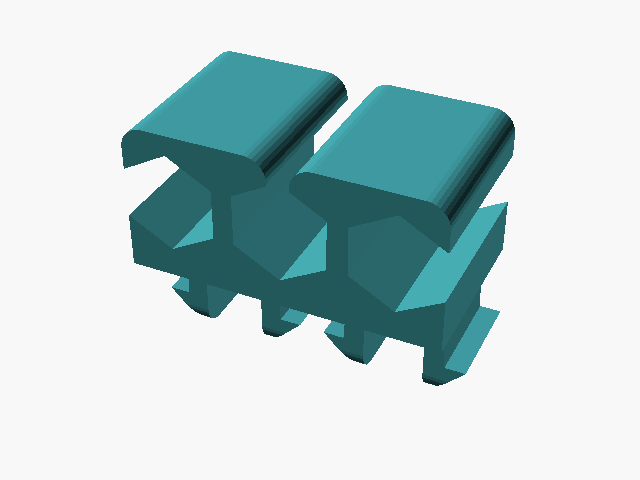
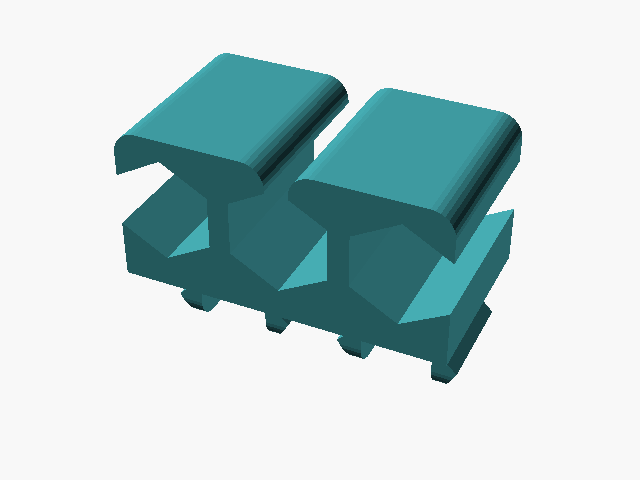
modgrid: reshape the pin so its legs bend instead of snapping
A test print of the pin rebuilt from the designer's v4 files broke: its
barbs are 6.9mm across for a 5mm hole, so each leg has to bend 0.95mm
inward on a leg about 3mm long and thinnest at its root. A plane-stress
model of that profile puts the root at about 8% strain on the way in,
twice what printed PLA takes.

The pegs keep the designer's layout (two per 2x1 pin, on the 8mm pitch)
and are reshaped to bend: barbs 0.3mm past each wall, 0.65mm legs
slotted to 0.25mm under the root, a 30 degree lead-in, and a 45 degree
latch face set to cross the hole's back edge 0.1mm outside the wall, so
a seated leg stays bent that much and pulls the part flush with no
rattle. The same model puts the legs at about 2.3% strain with a sixth
of the force per leg. Pegs are 4.8mm deep (5 before) for room in the
hole.

The bit holders keep the designer's bodies on the new pin. Their shape
checks now compare the bodies only, clipped above the pin's root; the
shape check against the designer's connector is gone, and the fit
checks allow the preload's 0.024mm3 of overlap per leg.

diff --git a/README.md b/README.md
@@ -55,9 +55,11 @@ too, for the same reason: the community's Skådis libraries are GPL or unlicense
 measured against, not vendored. The MOLLE spine, panels and insert (`lib/molle.scad`) are this repo's
 from scratch: PALS is defined by its webbing (25.4 mm rows, 25.4 mm apart, bar-tacked every
 38.1 mm), rigid panels have no standard at all, and there is no open model to check against, so all are
-`parametric`. The MOD-GRID grid, pin and bit holders (`lib/modgrid.scad`) are rebuilt here from
+`parametric`. The MOD-GRID grid and bit holders (`lib/modgrid.scad`) are rebuilt here from
 measurements of the designer's own STLs, which sit behind a MakerWorld login: they are not shipped,
-and `references.yaml` checks the parts against them once they are in `refs/manual/modgrid/`.
+and `references.yaml` checks the parts against them once they are in `refs/manual/modgrid/`. The
+pin keeps the designer's layout but is reshaped so its legs bend instead of snapping off, and is
+checked to fit the designer's grid.
 Each catalogue entry links its own source; see "Licensing" for what the non-MIT ones mean for you.
 
 ## Quick start
@@ -160,8 +162,8 @@ LEGO-compatible fasteners print poorly, so print real ones or use the finished B
 | ![Board](docs/img/skadis_board.png)<br>Board | Skådis | exact | MIT | [lib/skadis.scad: Skådis's 5 x 15mm slots in a checkerboard on a 20mm grid, checked against breckenedge's parametric-skadis-tower (CC-BY-SA 4.0, measured against, not vendored).](https://github.com/breckenedge/parametric-skadis-tower) | Flat on the bed, no supports. 5mm thick, slots 40mm apart along a row and rows 20mm apart, every other row shifted 20mm, as on a Skådis board; cols counts the slots in a row, in halves: 2.5 is five 20mm cells across, which makes the board symmetric left to right (a whole number leaves one side starting on a gap). The slots are cut 5.2mm wide, so moulded Skådis hooks go in. A board is exactly 2 x cols x rows 20mm cells, so boards butt together. "mount" is the back, against the wall. |
 | ![Peg](docs/img/skadis_peg.png)<br>Peg | Skådis | exact | MIT | [lib/skadis.scad's hook tab, checked against this repo's Skådis board (itself checked against parametric-skadis-tower).](https://github.com/breckenedge/parametric-skadis-tower) | Print it on its side, a tab flat on the bed, so the layers run along the arm. Each tab goes straight through a slot, drops 6mm and hangs behind the board; lift it to take it off. pegs 2 puts two tabs 40mm apart, for two slots in a row, so the part cannot turn. The plate's front is "mount", for fusing a holder or shelf onto. |
 | ![Grid](docs/img/modgrid_grid.png)<br>Grid | MOD-GRID | exact | CC-BY-NC-SA-4.0 | [MOD-GRID by 3dedc (TinyToolShop), MakerWorld model 2811701 — rebuilt from the designer's 4x12 grid STL, measured, and checked against it. CC BY-NC-SA 4.0 — see README "Licensing".](https://makerworld.com/en/models/2811701-mod-grid) | Flat on the bed, no supports. 5mm square holes on an 8mm pitch through a 3mm plate, cols across and rows up: a grid is exactly cols x 8 + 3 by rows x 8 + 3mm, so the designer's 12 x 4 is 99 x 35. Accessories plug into two neighbouring holes of a row. "mount" is the back, for fusing the grid onto a case or a lid. |
-| ![Pin](docs/img/modgrid_connector.png)<br>Pin | MOD-GRID | exact | CC-BY-NC-SA-4.0 | [MOD-GRID by 3dedc (TinyToolShop), MakerWorld model 2811701 — the designer's "Modular connector", rebuilt from its v4 STL, measured, and checked against it. CC BY-NC-SA 4.0 — see README "Licensing".](https://makerworld.com/en/models/2811701-mod-grid) | The snap pin MOD-GRID accessories plug in with, for fusing onto any part so it plugs into a MOD-GRID grid; on the Bench it attaches with plate 0, the pegs straight on the part's face. pegs 2 is the designer's 2x1 pin, for two neighbouring holes of a row; pegs 1 a single peg for one hole. rows repeats them in that many rows; depth is how deep each goes along its hole (5, the hole). On its own, plate puts a plate behind them, 14.6mm wide for two pegs, 6.6 for one. Print the pegs on their side, their profile flat on the bed, as the designer does: turn the part, or the part it is fused onto, that way in the slicer. |
-| ![Bit holder](docs/img/modgrid_bit_holder.png)<br>Bit holder | MOD-GRID | exact | CC-BY-NC-SA-4.0 | [MOD-GRID by 3dedc (TinyToolShop), MakerWorld model 2811701 — the designer's 4mm, 6mm and Leatherman flat bit holders, rebuilt from their v4 STLs, measured, and checked against them. CC BY-NC-SA 4.0 — see README "Licensing".](https://makerworld.com/en/models/2811701-mod-grid) | Holds driver bits on a MOD-GRID grid: bit 4mm takes three 4mm hex precision bits, 6mm two 1/4" (6.35mm) hex bits, leatherman three Leatherman flat bits. The bits lie along the holder and slide in from an end. rows makes it that many grid rows long, 8mm and a pin each, to hold longer bits further along. Print it on its side, an end face on the bed, as the designer does; no supports. |
+| ![Pin](docs/img/modgrid_connector.png)<br>Pin | MOD-GRID | exact | CC-BY-NC-SA-4.0 | [MOD-GRID by 3dedc (TinyToolShop), MakerWorld model 2811701 — the designer's "Modular connector", with its pegs reshaped so their legs bend instead of breaking, and checked to fit the designer's grid. CC BY-NC-SA 4.0 — see README "Licensing".](https://makerworld.com/en/models/2811701-mod-grid) | The snap pin MOD-GRID accessories plug in with, for fusing onto any part so it plugs into a MOD-GRID grid; on the Bench it attaches with plate 0, the pegs straight on the part's face. pegs 2 is the 2x1 pin, for two neighbouring holes of a row; pegs 1 a single peg for one hole. rows repeats them in that many rows; depth is how deep each goes along its 5mm hole (4.8). On its own, plate puts a plate behind them, 14.6mm wide for two pegs, 6.6 for one. Each peg's legs bend 0.3mm to snap in and stay pressed on the hole's back edge, so the part sits flush and firm. Print the pegs on their side, their profile flat on the bed, as the designer does: turn the part, or the part it is fused onto, that way in the slicer. |
+| ![Bit holder](docs/img/modgrid_bit_holder.png)<br>Bit holder | MOD-GRID | exact | CC-BY-NC-SA-4.0 | [MOD-GRID by 3dedc (TinyToolShop), MakerWorld model 2811701 — the designer's 4mm, 6mm and Leatherman flat bit holders, rebuilt from their v4 STLs, measured, and checked against them, on the reshaped pin of the MOD-GRID pin part. CC BY-NC-SA 4.0 — see README "Licensing".](https://makerworld.com/en/models/2811701-mod-grid) | Holds driver bits on a MOD-GRID grid: bit 4mm takes three 4mm hex precision bits, 6mm two 1/4" (6.35mm) hex bits, leatherman three Leatherman flat bits. The bits lie along the holder and slide in from an end. rows makes it that many grid rows long, 8mm and a pin each, to hold longer bits further along. Print it on its side, an end face on the bed, as the designer does; no supports. |
 | ![Spine](docs/img/molle_spine.png)<br>Spine | MOLLE | parametric | MIT | [lib/molle.scad, from the PALS grid as the webbing defines it: 25.4mm (1") rows with a 25.4mm gap, bar-tacked every 38.1mm (1.5"). No published geometry drawing or open model to check against.](https://en.wikipedia.org/wiki/Pouch_Attachment_Ladder_System) | Print it on its side, the profile flat on the bed, so the layers run along the tongue; PETG flexes better than PLA. Slide the tongue down behind rows rows of webbing from above, until the barb clicks in under the bottom row; press the tip back to take it off. cols 2 puts two tongues 38.1mm apart, for two columns, so the part cannot swing. webbing is the gap the webbing sits in: measure yours, and go tighter for a firmer grip. The plate's front is "mount". |
 | ![Panel](docs/img/molle_panel.png)<br>Panel | MOLLE | parametric | MIT | [lib/molle.scad: a laser-cut MOLLE panel's slits, every 25.4mm up and 38.1mm across, with a channel behind each column for the strap. No published geometry drawing or open model to check against.](https://en.wikipedia.org/wiki/Pouch_Attachment_Ladder_System) | Front down, ribs up, no supports. A pouch strap goes in at one slit, behind the strip, out at the next; the 30 x 5mm slits take a 1" strap, and channel is the room behind the skin for it to run in (0 for a bare slotted skin). rows counts strips, rows + 1 rows of slits. A panel is exactly cols x 38.1 by (rows + 1) x 25.4mm, so panels butt together. "mount" is the back. |
 | ![Rigid panel](docs/img/molle_rigid_panel.png)<br>Rigid panel | MOLLE | parametric | MIT | [lib/molle.scad: rigid panels have no standard; the default opening is DV8 Offroad's published 1.5" x 1" (38.1 x 25.4mm), on PALS spacing up and a 12.7mm bar across. No open model to check against.](https://nomadicsupply.com/dv8-offroad-universal-molle-panel-23x15-unmp-06/) | Flat on the bed, no supports. Open windows that pouch straps wrap round and molle/insert plugs into. cols x rows openings, each open_w x open_h with open_r corners, centred in pitch_x x pitch_y cells: a panel is exactly cols x pitch_x by rows x pitch_y, so panels butt together. The openings are 0.5mm over the nominal 38.1 x 25.4, since printed holes come out narrow; a molle/insert at its defaults has 0.3mm a side. To match a truck panel, measure its openings and the distance between their centres. Mounting holes come from the Holes tab. "mount" is the back. |

diff --git a/CHANGELOG.md b/CHANGELOG.md
@@ -5,6 +5,20 @@ parts themselves. The desktop downloads are on the
 [releases page](https://github.com/dnnsmnstrr/connector-foundry/releases); the web version always
 runs the latest `main` at https://dnnsmnstrr.github.io/connector-foundry/app/.
 
+## Unreleased
+
+### Parts
+
+- **MOD-GRID pin, reshaped so it bends instead of breaking.** The designer's pin has barbs 6.9mm
+  across for a 5mm hole, so each leg had to bend almost a millimetre on a leg 3mm long: printed in
+  PLA, the legs snapped off rather than going in. The pegs keep the designer's layout but now have
+  thinner, longer legs, barbs 0.3mm proud of the hole, a gentle 30° lead-in and a 45° latch that
+  stays pressed on the hole's back edge, so the part pulls flush onto the grid and doesn't rattle.
+  Going in takes about a sixth of the force, and the strain in the legs is about a quarter of what
+  it was. Pegs are 4.8mm deep now (5 before), with room in the hole. The pin part, and the bit
+  holders that use it, still fit grids printed from the designer's file; the grid is unchanged, so
+  accessories printed from the designer's files still fit it too.
+
 ## 0.4.0 — 2026-10-18
 
 ### Website
